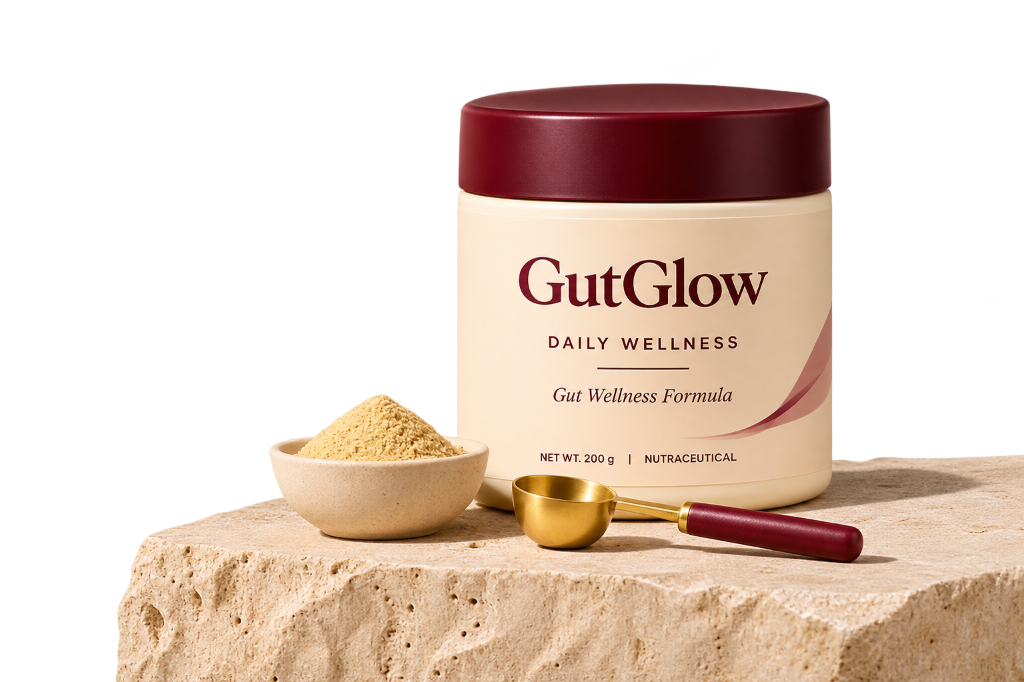
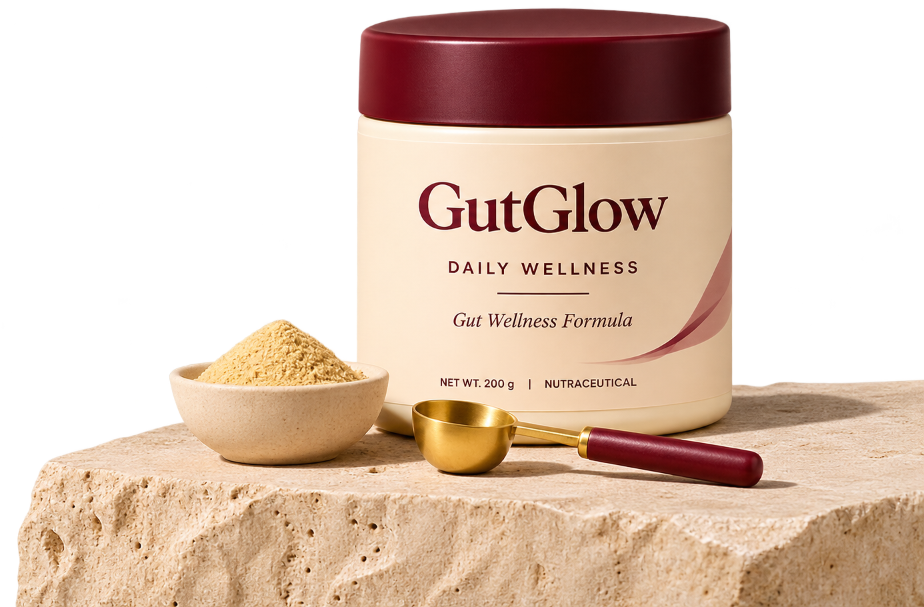
feat(mobile-hero): enlarge product jar and maintain flush right limestone platform

diff --git a/components/home/HeroSection.tsx b/components/home/HeroSection.tsx
@@ -93,13 +93,13 @@ export function HeroSection() {
       <div className="block min-[900px]:hidden pt-1 pb-6 sm:pb-8 max-w-xl mx-auto overflow-hidden">
         {/* 1. PRODUCT COMPOSITION (LARGER, FLUSH TO RIGHT SCREEN EDGE, NATURAL ARCHITECTURAL PERSPECTIVE) */}
         <div className="w-full flex justify-end overflow-visible">
-          <div className="relative w-[96%] min-[360px]:w-[94%] sm:w-[88%] max-w-[460px] aspect-[1024/682] select-none ml-auto mr-0">
+          <div className="relative w-full max-w-[520px] aspect-[924/607] select-none ml-auto mr-0">
             <Image
               src="/images/gutglow-hero-mobile.webp"
               alt="GutGlow Daily Wellness Formula jar on natural limestone platform"
               fill
               priority
-              sizes="(max-width: 640px) 95vw, 460px"
+              sizes="(max-width: 640px) 100vw, 520px"
               className="object-contain object-right"
             />
           </div>
